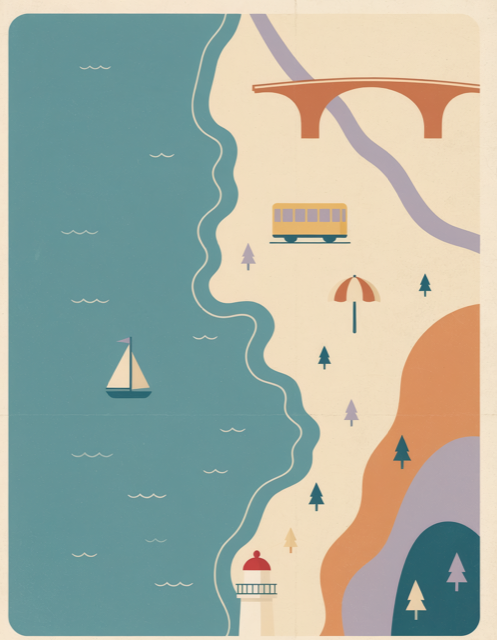
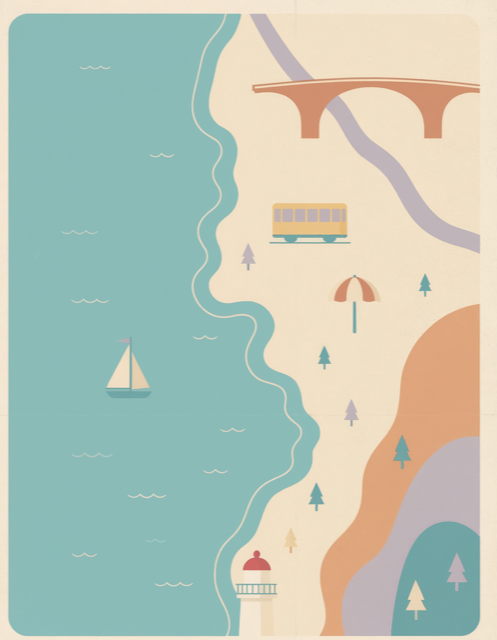
Reisekarte: helleres, App-farbenes Kartenbild (Ozean -> App-Tuerkis, Land -> Papierton); Porto-Label auf Landseite

diff --git a/index.html b/index.html
@@ -664,13 +664,15 @@ function renderKursMap() {
     } else {
       el('path', { d: `M ${p.x - 4.5} ${p.y + 1} q 2.2 -4.5 4.5 0 q 2.3 4.5 4.5 0`, fill: 'none', stroke: 'var(--clay)', 'stroke-width': 2, 'stroke-linecap': 'round' });
     }
-    const lx = p.x - 22;
-    const t = el('text', { x: lx, y: p.y + 1, 'text-anchor': 'end',
+    const rechts = i === 0;
+    const lx = rechts ? p.x + 22 : p.x - 22;
+    const anker = rechts ? 'start' : 'end';
+    const t = el('text', { x: lx, y: p.y + 1, 'text-anchor': anker,
       fill: 'var(--ink)', 'font-size': '12', 'font-weight': '700',
       'font-family': 'Space Grotesk, sans-serif', stroke: '#fffdf6', 'stroke-width': '3',
       'paint-order': 'stroke' });
     t.textContent = e2.name;
-    const t2 = el('text', { x: lx, y: p.y + 13, 'text-anchor': 'end',
+    const t2 = el('text', { x: lx, y: p.y + 13, 'text-anchor': anker,
       fill: 'var(--ink)', 'font-size': '7.5', 'letter-spacing': '.06em',
       'font-family': 'Roboto Mono, monospace', stroke: '#fffdf6', 'stroke-width': '2.5',
       'paint-order': 'stroke' });
